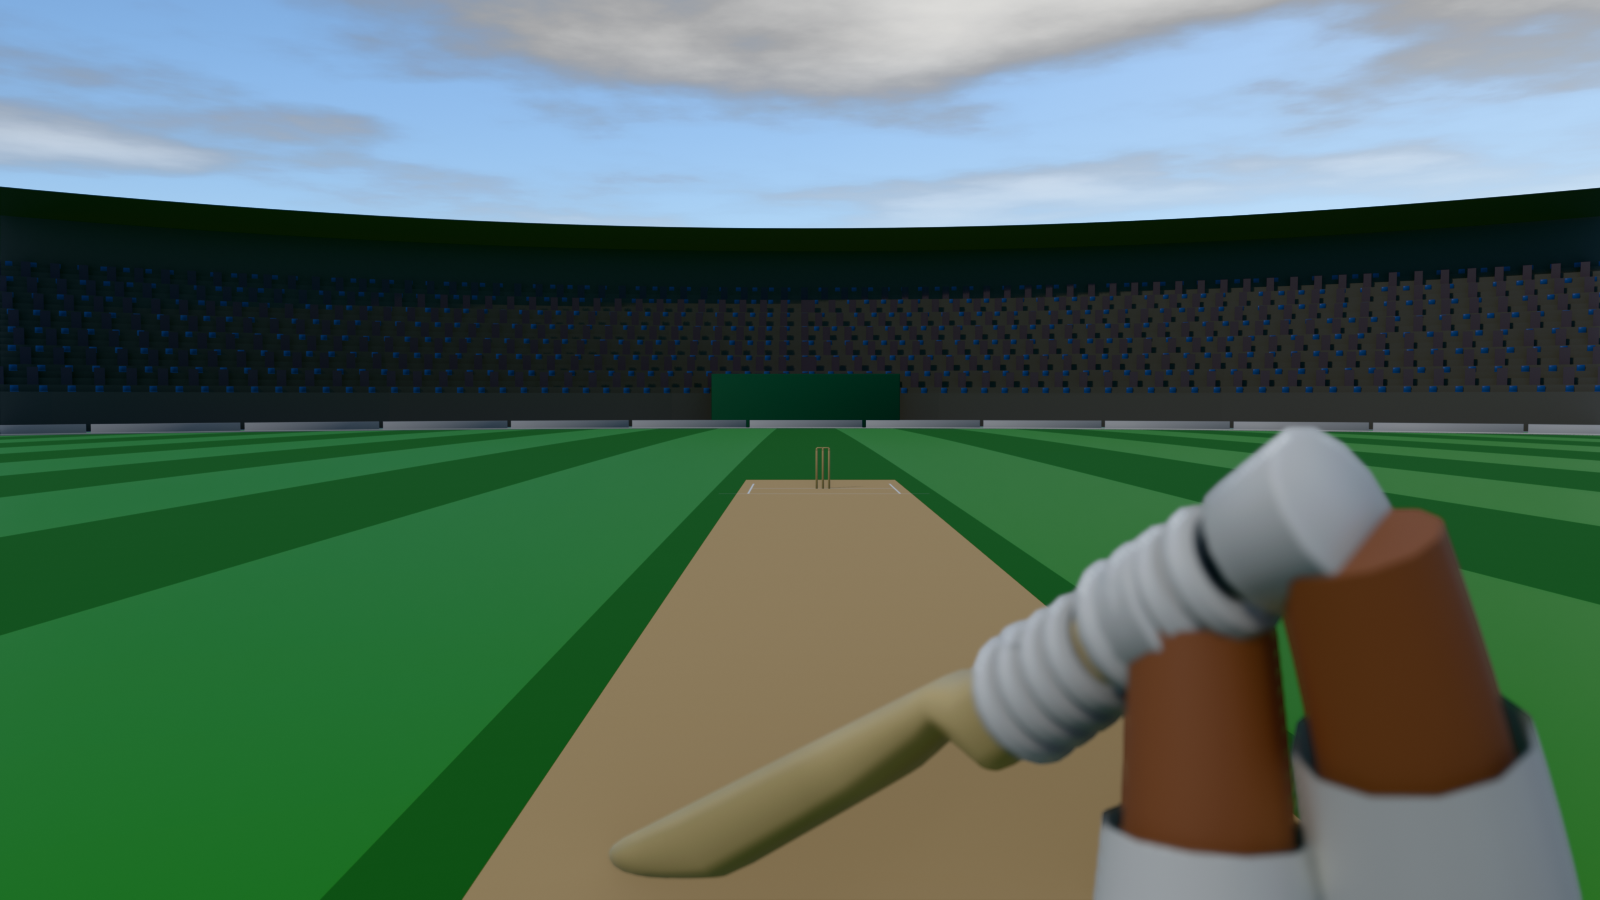
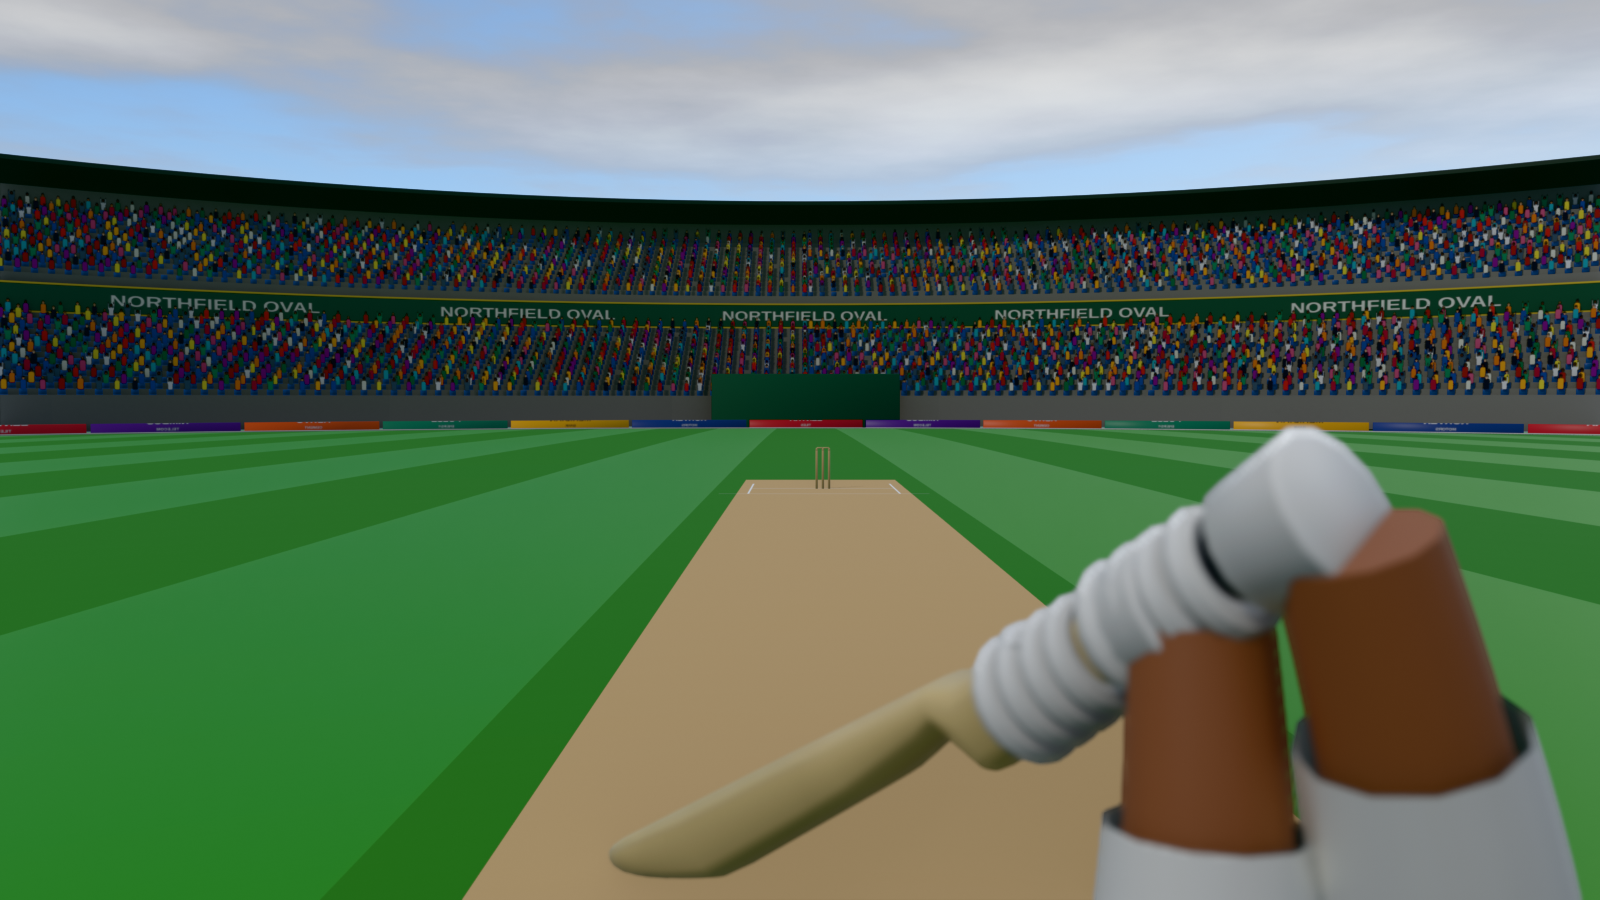
Fix mirrored hoarding text; enlarge clouds for a near-horizontal camera
Two follow-ups after looking at the 1600x900 stadium render.

The boundary boards printed their brand names back to front - the same
mirroring class as the signage, on a different surface and for a different
reason. The panels are rotated to face the middle of the ground, so their
local +X points to the viewer's left; the planar UV needed negating rather
than a winding fix. Worth noting both surfaces needed positional UVs and both
needed thinking about which way the text faces, independently.

Clouds are authored much larger (cell scale 0.19 -> 0.115) with slightly
higher coverage. The cloud-plane projection compresses everything toward the
horizon, and a cricket camera looks near-horizontally almost all the time, so
it only ever sees that compressed band. Clouds sized to look right overhead
read as thin haze where the camera actually points.

Also updates pov.png to the full-resolution stadium: dense two-tier crowd,
correct signage, hoardings and sightscreen, against the near-black stands of
the previous pass. hero.png is left at its earlier render; its framing is
already logged as a gap and the intermediate pass was lower resolution.

Claude-Session: https://claude.ai/code/session_01L6SgPVg95zHMC3JLhftLoK

diff --git a/cricket-assets/blender/build_lookdev.py b/cricket-assets/blender/build_lookdev.py
@@ -114,7 +114,11 @@ def build_sky_world():
     nt.links.new(uy.outputs[0], comb.inputs['Y'])
 
     mapping = nt.nodes.new('ShaderNodeMapping')
-    mapping.inputs['Scale'].default_value = (0.19, 0.19, 0.19)
+    # Bigger cells = bigger clouds. The cloud-plane projection compresses
+    # everything toward the horizon, so a camera looking near-horizontally
+    # (which most cricket cameras do) sees the compressed band -- clouds have
+    # to be authored large to still read as cumulus down there.
+    mapping.inputs['Scale'].default_value = (0.115, 0.115, 0.115)
     nt.links.new(comb.outputs['Vector'], mapping.inputs['Vector'])
 
     noise = nt.nodes.new('ShaderNodeTexNoise')
@@ -129,8 +133,8 @@ def build_sky_world():
     # Lower start = more sky covered. The reference is a busy cumulus sky, so
     # coverage runs high; drop both numbers together to add more cloud without
     # turning the edges to mush.
-    ramp.color_ramp.elements[0].position = 0.385
-    ramp.color_ramp.elements[1].position = 0.552
+    ramp.color_ramp.elements[0].position = 0.370
+    ramp.color_ramp.elements[1].position = 0.548
     nt.links.new(noise.outputs['Fac'], ramp.inputs['Fac'])
 
     # fade the cloud layer out at the horizon (Math has no smoothstep in 5.0,

diff --git a/cricket-assets/blender/build_stadium.py b/cricket-assets/blender/build_stadium.py
@@ -226,12 +226,15 @@ def build_hoarding_panel(col, index=0):
     M.bevel(obj, width=0.02, segments=2)
     M.apply_all_modifiers(obj)
     M.shade_smooth(obj, angle_deg=35)
-    # planar UV on the inward face so the artwork is not wrapped round the box
+    # Planar UV so the artwork is not wrapped round the box. U is NEGATED:
+    # the panel is rotated to face the middle of the ground, so its local +X
+    # points to the viewer's LEFT and un-negated text reads back to front --
+    # the same mirroring that caught the signage, on a different surface.
     uvl = obj.data.uv_layers[0] if obj.data.uv_layers else obj.data.uv_layers.new(name='UVMap')
     for poly in obj.data.polygons:
         for li in poly.loop_indices:
             co = obj.data.vertices[obj.data.loops[li].vertex_index].co
-            uvl.data[li].uv = (co.x / 8.0 + 0.5, co.z / 1.15)
+            uvl.data[li].uv = (0.5 - co.x / 8.0, co.z / 1.15)
     mat.assign(obj, mat.hoarding_tex(index % N_BRANDS))
     return obj
 
